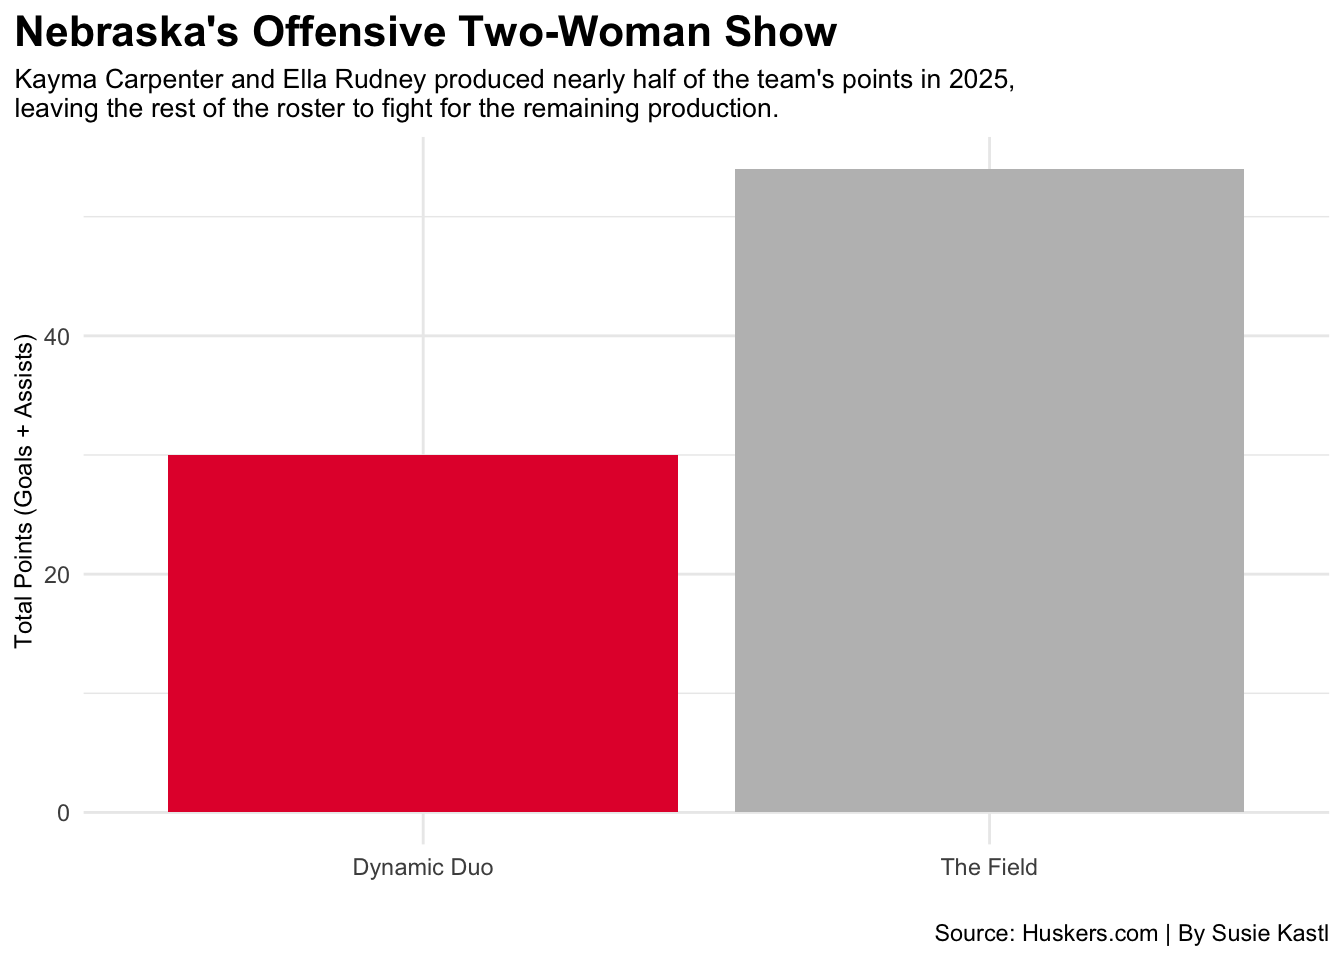
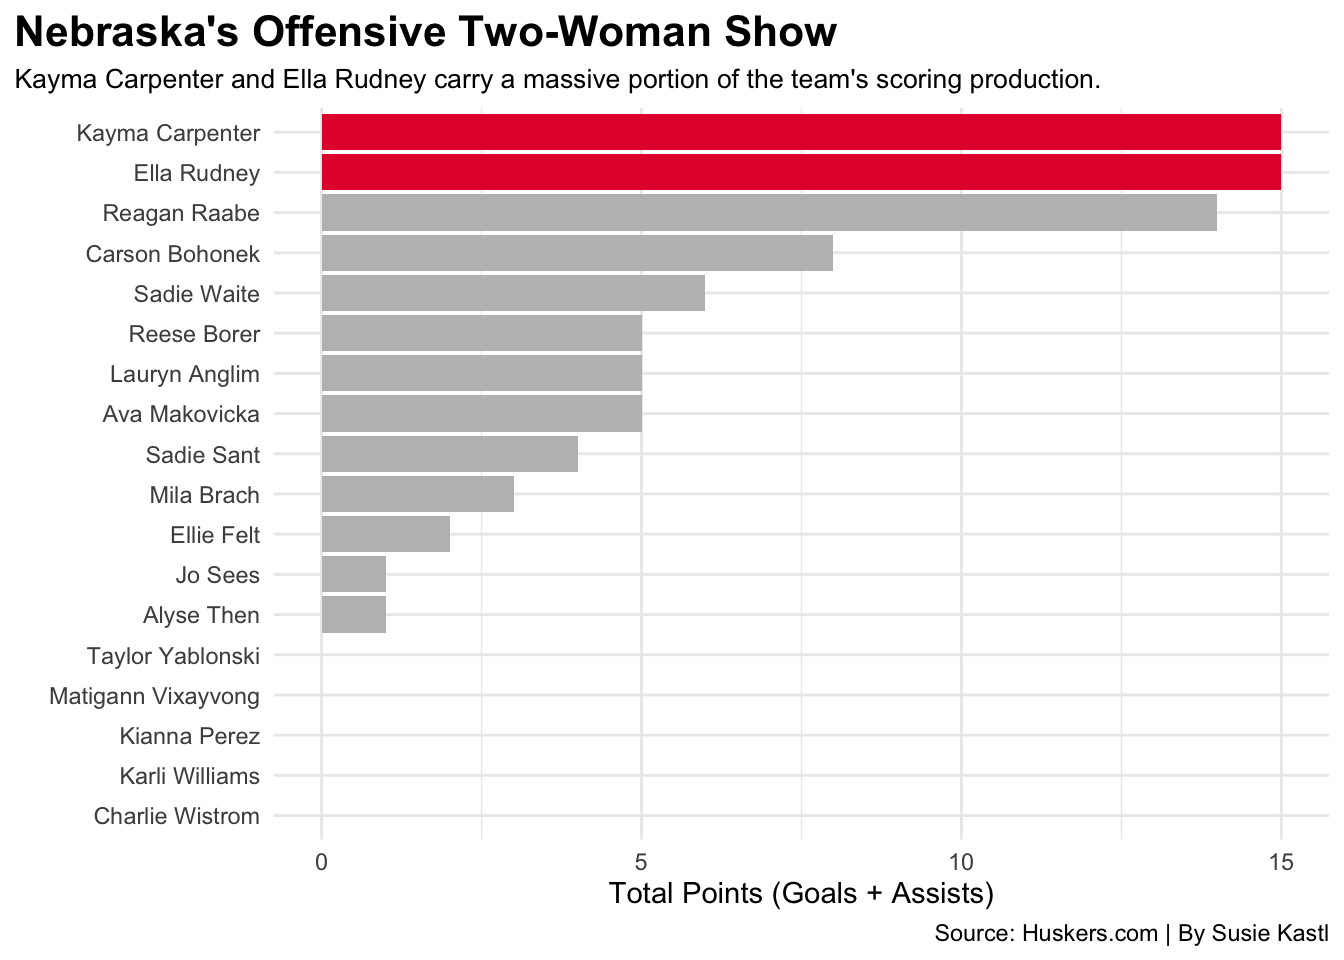
text

diff --git a/posts/huskers-soccer-stats/index.html b/posts/huskers-soccer-stats/index.html
@@ -376,31 +376,25 @@ pre > code.sourceCode > span > a:first-child::before { text-decoration: underlin
 <div class="code-copy-outer-scaffold"><div class="sourceCode cell-code" id="cb1"><pre class="sourceCode r code-with-copy"><code class="sourceCode r"><span id="cb1-1"><a href="#cb1-1" aria-hidden="true" tabindex="-1"></a><span class="fu">library</span>(tidyverse)</span>
 <span id="cb1-2"><a href="#cb1-2" aria-hidden="true" tabindex="-1"></a></span>
 <span id="cb1-3"><a href="#cb1-3" aria-hidden="true" tabindex="-1"></a>players <span class="ot">&lt;-</span> <span class="fu">read_csv</span>(<span class="st">"playersdata.csv"</span>)</span>
-<span id="cb1-4"><a href="#cb1-4" aria-hidden="true" tabindex="-1"></a>games <span class="ot">&lt;-</span> <span class="fu">read_csv</span>(<span class="st">"gamestats.csv"</span>)</span>
-<span id="cb1-5"><a href="#cb1-5" aria-hidden="true" tabindex="-1"></a></span>
-<span id="cb1-6"><a href="#cb1-6" aria-hidden="true" tabindex="-1"></a>point_dist <span class="ot">&lt;-</span> players <span class="sc">|&gt;</span> </span>
-<span id="cb1-7"><a href="#cb1-7" aria-hidden="true" tabindex="-1"></a>  <span class="fu">mutate</span>(<span class="at">Category =</span> <span class="fu">ifelse</span>(Name <span class="sc">==</span> <span class="st">"Kayma Carpenter"</span> <span class="sc">|</span> Name <span class="sc">==</span> <span class="st">"Ella Rudney"</span>, <span class="st">"Dynamic Duo"</span>, <span class="st">"The Field"</span>)) <span class="sc">|&gt;</span> </span>
-<span id="cb1-8"><a href="#cb1-8" aria-hidden="true" tabindex="-1"></a>  <span class="fu">group_by</span>(Category) <span class="sc">|&gt;</span> </span>
-<span id="cb1-9"><a href="#cb1-9" aria-hidden="true" tabindex="-1"></a>  <span class="fu">summarise</span>(<span class="at">Total_Points =</span> <span class="fu">sum</span>(PTS))</span>
-<span id="cb1-10"><a href="#cb1-10" aria-hidden="true" tabindex="-1"></a></span>
-<span id="cb1-11"><a href="#cb1-11" aria-hidden="true" tabindex="-1"></a><span class="fu">ggplot</span>() <span class="sc">+</span></span>
-<span id="cb1-12"><a href="#cb1-12" aria-hidden="true" tabindex="-1"></a>  <span class="fu">geom_bar</span>(<span class="at">data =</span> point_dist, <span class="fu">aes</span>(<span class="at">x =</span> <span class="fu">reorder</span>(Category, Total_Points), <span class="at">weight =</span> Total_Points), <span class="at">fill =</span> <span class="st">"grey"</span>) <span class="sc">+</span></span>
-<span id="cb1-13"><a href="#cb1-13" aria-hidden="true" tabindex="-1"></a>  <span class="fu">geom_bar</span>(<span class="at">data =</span> point_dist <span class="sc">|&gt;</span> <span class="fu">filter</span>(Category <span class="sc">==</span> <span class="st">"Dynamic Duo"</span>), <span class="fu">aes</span>(<span class="at">x =</span> Category, <span class="at">weight =</span> Total_Points), <span class="at">fill =</span> <span class="st">"#E41C38"</span>) <span class="sc">+</span></span>
-<span id="cb1-14"><a href="#cb1-14" aria-hidden="true" tabindex="-1"></a>  <span class="fu">scale_y_continuous</span>(<span class="at">labels =</span> scales<span class="sc">::</span>comma) <span class="sc">+</span> <span class="co"># Rubric: Comma formatting</span></span>
-<span id="cb1-15"><a href="#cb1-15" aria-hidden="true" tabindex="-1"></a>  <span class="fu">theme_minimal</span>() <span class="sc">+</span> </span>
-<span id="cb1-16"><a href="#cb1-16" aria-hidden="true" tabindex="-1"></a>  <span class="fu">labs</span>(</span>
-<span id="cb1-17"><a href="#cb1-17" aria-hidden="true" tabindex="-1"></a>    <span class="at">title =</span> <span class="st">"Nebraska's Offensive Two-Woman Show"</span>,</span>
-<span id="cb1-18"><a href="#cb1-18" aria-hidden="true" tabindex="-1"></a>    <span class="at">subtitle =</span> <span class="st">"Kayma Carpenter and Ella Rudney produced nearly half of the team's points in 2025,</span><span class="sc">\n</span><span class="st">leaving the rest of the roster to fight for the remaining production."</span>,</span>
-<span id="cb1-19"><a href="#cb1-19" aria-hidden="true" tabindex="-1"></a>    <span class="at">x =</span> <span class="st">""</span>, <span class="co"># Rubric: Removed unnecessary label</span></span>
-<span id="cb1-20"><a href="#cb1-20" aria-hidden="true" tabindex="-1"></a>    <span class="at">y =</span> <span class="st">"Total Points (Goals + Assists)"</span>,</span>
-<span id="cb1-21"><a href="#cb1-21" aria-hidden="true" tabindex="-1"></a>    <span class="at">caption =</span> <span class="st">"Source: Huskers.com | By Susie Kastl"</span></span>
-<span id="cb1-22"><a href="#cb1-22" aria-hidden="true" tabindex="-1"></a>  ) <span class="sc">+</span></span>
-<span id="cb1-23"><a href="#cb1-23" aria-hidden="true" tabindex="-1"></a>  <span class="fu">theme</span>(</span>
-<span id="cb1-24"><a href="#cb1-24" aria-hidden="true" tabindex="-1"></a>    <span class="at">plot.title.position =</span> <span class="st">"plot"</span>, <span class="co"># Rubric: Flush left</span></span>
-<span id="cb1-25"><a href="#cb1-25" aria-hidden="true" tabindex="-1"></a>    <span class="at">plot.title =</span> <span class="fu">element_text</span>(<span class="at">face =</span> <span class="st">"bold"</span>, <span class="at">size =</span> <span class="dv">16</span>),</span>
-<span id="cb1-26"><a href="#cb1-26" aria-hidden="true" tabindex="-1"></a>    <span class="at">plot.subtitle =</span> <span class="fu">element_text</span>(<span class="at">size =</span> <span class="dv">10</span>),</span>
-<span id="cb1-27"><a href="#cb1-27" aria-hidden="true" tabindex="-1"></a>    <span class="at">axis.title =</span> <span class="fu">element_text</span>(<span class="at">size =</span> <span class="dv">9</span>)</span>
-<span id="cb1-28"><a href="#cb1-28" aria-hidden="true" tabindex="-1"></a>  )</span></code></pre></div><button title="Copy to Clipboard" class="code-copy-button"><i class="bi"></i></button></div>
+<span id="cb1-4"><a href="#cb1-4" aria-hidden="true" tabindex="-1"></a></span>
+<span id="cb1-5"><a href="#cb1-5" aria-hidden="true" tabindex="-1"></a><span class="fu">ggplot</span>() <span class="sc">+</span> </span>
+<span id="cb1-6"><a href="#cb1-6" aria-hidden="true" tabindex="-1"></a>  <span class="fu">geom_bar</span>(<span class="at">data=</span>players, <span class="fu">aes</span>(<span class="at">x=</span><span class="fu">reorder</span>(Name, PTS), <span class="at">weight=</span>PTS), <span class="at">fill=</span><span class="st">"grey"</span>) <span class="sc">+</span> </span>
+<span id="cb1-7"><a href="#cb1-7" aria-hidden="true" tabindex="-1"></a>  <span class="fu">geom_bar</span>(<span class="at">data=</span>players <span class="sc">|&gt;</span> <span class="fu">filter</span>(Name <span class="sc">==</span> <span class="st">"Kayma Carpenter"</span>), <span class="fu">aes</span>(<span class="at">x=</span>Name, <span class="at">weight=</span>PTS), <span class="at">fill=</span><span class="st">"#E41C38"</span>) <span class="sc">+</span></span>
+<span id="cb1-8"><a href="#cb1-8" aria-hidden="true" tabindex="-1"></a>  <span class="fu">geom_bar</span>(<span class="at">data=</span>players <span class="sc">|&gt;</span> <span class="fu">filter</span>(Name <span class="sc">==</span> <span class="st">"Ella Rudney"</span>), <span class="fu">aes</span>(<span class="at">x=</span>Name, <span class="at">weight=</span>PTS), <span class="at">fill=</span><span class="st">"#E41C38"</span>) <span class="sc">+</span></span>
+<span id="cb1-9"><a href="#cb1-9" aria-hidden="true" tabindex="-1"></a>  <span class="fu">coord_flip</span>() <span class="sc">+</span></span>
+<span id="cb1-10"><a href="#cb1-10" aria-hidden="true" tabindex="-1"></a>  <span class="fu">theme_minimal</span>() <span class="sc">+</span> </span>
+<span id="cb1-11"><a href="#cb1-11" aria-hidden="true" tabindex="-1"></a>  <span class="fu">labs</span>(</span>
+<span id="cb1-12"><a href="#cb1-12" aria-hidden="true" tabindex="-1"></a>    <span class="at">title =</span> <span class="st">"Nebraska's Offensive Two-Woman Show"</span>,</span>
+<span id="cb1-13"><a href="#cb1-13" aria-hidden="true" tabindex="-1"></a>    <span class="at">subtitle =</span> <span class="st">"Kayma Carpenter and Ella Rudney carry a massive portion of the team's scoring production."</span>,</span>
+<span id="cb1-14"><a href="#cb1-14" aria-hidden="true" tabindex="-1"></a>    <span class="at">x =</span> <span class="st">""</span>, </span>
+<span id="cb1-15"><a href="#cb1-15" aria-hidden="true" tabindex="-1"></a>    <span class="at">y =</span> <span class="st">"Total Points (Goals + Assists)"</span>,</span>
+<span id="cb1-16"><a href="#cb1-16" aria-hidden="true" tabindex="-1"></a>    <span class="at">caption =</span> <span class="st">"Source: Huskers.com | By Susie Kastl"</span></span>
+<span id="cb1-17"><a href="#cb1-17" aria-hidden="true" tabindex="-1"></a>  ) <span class="sc">+</span></span>
+<span id="cb1-18"><a href="#cb1-18" aria-hidden="true" tabindex="-1"></a>  <span class="fu">theme</span>(</span>
+<span id="cb1-19"><a href="#cb1-19" aria-hidden="true" tabindex="-1"></a>    <span class="at">plot.title.position =</span> <span class="st">"plot"</span>,</span>
+<span id="cb1-20"><a href="#cb1-20" aria-hidden="true" tabindex="-1"></a>    <span class="at">plot.title =</span> <span class="fu">element_text</span>(<span class="at">face =</span> <span class="st">"bold"</span>, <span class="at">size =</span> <span class="dv">16</span>),</span>
+<span id="cb1-21"><a href="#cb1-21" aria-hidden="true" tabindex="-1"></a>    <span class="at">plot.subtitle =</span> <span class="fu">element_text</span>(<span class="at">size =</span> <span class="dv">10</span>)</span>
+<span id="cb1-22"><a href="#cb1-22" aria-hidden="true" tabindex="-1"></a>  )</span></code></pre></div><button title="Copy to Clipboard" class="code-copy-button"><i class="bi"></i></button></div>
 </details>
 <div class="cell-output-display">
 <div>
@@ -470,14 +464,14 @@ pre > code.sourceCode > span > a:first-child::before { text-decoration: underlin
 <span id="cb3-7"><a href="#cb3-7" aria-hidden="true" tabindex="-1"></a>  <span class="fu">geom_line</span>(<span class="at">data =</span> games, <span class="fu">aes</span>(<span class="at">x =</span> GameNum, <span class="at">y =</span> G), <span class="at">color =</span> <span class="st">"grey"</span>, <span class="at">size =</span> <span class="dv">1</span>) <span class="sc">+</span></span>
 <span id="cb3-8"><a href="#cb3-8" aria-hidden="true" tabindex="-1"></a>  <span class="fu">geom_point</span>(<span class="at">data =</span> games, <span class="fu">aes</span>(<span class="at">x =</span> GameNum, <span class="at">y =</span> G, <span class="at">color =</span> Duo_scored), <span class="at">size =</span> <span class="dv">3</span>) <span class="sc">+</span></span>
 <span id="cb3-9"><a href="#cb3-9" aria-hidden="true" tabindex="-1"></a>  <span class="fu">scale_color_manual</span>(<span class="at">values =</span> <span class="fu">c</span>(<span class="st">"Yes"</span> <span class="ot">=</span> <span class="st">"#E41C38"</span>, <span class="st">"No"</span> <span class="ot">=</span> <span class="st">"black"</span>)) <span class="sc">+</span></span>
-<span id="cb3-10"><a href="#cb3-10" aria-hidden="true" tabindex="-1"></a>  <span class="fu">scale_y_continuous</span>(<span class="at">labels =</span> scales<span class="sc">::</span>comma) <span class="sc">+</span> <span class="co"># Rubric: Comma formatting</span></span>
+<span id="cb3-10"><a href="#cb3-10" aria-hidden="true" tabindex="-1"></a>  <span class="fu">scale_y_continuous</span>(<span class="at">labels =</span> scales<span class="sc">::</span>comma) <span class="sc">+</span> </span>
 <span id="cb3-11"><a href="#cb3-11" aria-hidden="true" tabindex="-1"></a>  <span class="fu">theme_minimal</span>() <span class="sc">+</span></span>
 <span id="cb3-12"><a href="#cb3-12" aria-hidden="true" tabindex="-1"></a>  <span class="fu">labs</span>(</span>
 <span id="cb3-13"><a href="#cb3-13" aria-hidden="true" tabindex="-1"></a>    <span class="at">title =</span> <span class="st">"The Pulse of the Husker Offense"</span>,</span>
 <span id="cb3-14"><a href="#cb3-14" aria-hidden="true" tabindex="-1"></a>    <span class="at">subtitle =</span> <span class="st">"Nebraska's scoring output plummeted during Big Ten play when the 'Dynamic Duo'</span><span class="sc">\n</span><span class="st">was held scoreless, proving their role as the team's primary engine."</span>,</span>
 <span id="cb3-15"><a href="#cb3-15" aria-hidden="true" tabindex="-1"></a>    <span class="at">x =</span> <span class="st">"Game Number"</span>,</span>
 <span id="cb3-16"><a href="#cb3-16" aria-hidden="true" tabindex="-1"></a>    <span class="at">y =</span> <span class="st">"Goals Scored"</span>,</span>
-<span id="cb3-17"><a href="#cb3-17" aria-hidden="true" tabindex="-1"></a>    <span class="at">color =</span> <span class="st">"Duo Scored?"</span>, <span class="co"># FIXED: Correct legend label</span></span>
+<span id="cb3-17"><a href="#cb3-17" aria-hidden="true" tabindex="-1"></a>    <span class="at">color =</span> <span class="st">"Duo Scored?"</span>,</span>
 <span id="cb3-18"><a href="#cb3-18" aria-hidden="true" tabindex="-1"></a>    <span class="at">caption =</span> <span class="st">"Source: Huskers.com | By Susie Kastl"</span></span>
 <span id="cb3-19"><a href="#cb3-19" aria-hidden="true" tabindex="-1"></a>  ) <span class="sc">+</span></span>
 <span id="cb3-20"><a href="#cb3-20" aria-hidden="true" tabindex="-1"></a>  <span class="fu">theme</span>(</span>

diff --git a/index.html b/index.html
@@ -378,7 +378,7 @@ window.Quarto = {
 
 <div class="quarto-listing quarto-listing-container-default" id="listing-listing">
 <div class="list quarto-listing-default">
-<div class="quarto-post image-right" data-index="0" data-categories="bmNhYSUyQ3NvY2NlciUyQ2h1c2tlcnM=" data-listing-date-sort="1777352400000" data-listing-file-modified-sort="1777317170220" data-listing-date-modified-sort="NaN" data-listing-reading-time-sort="6" data-listing-word-count-sort="1047">
+<div class="quarto-post image-right" data-index="0" data-categories="bmNhYSUyQ3NvY2NlciUyQ2h1c2tlcnM=" data-listing-date-sort="1777352400000" data-listing-file-modified-sort="1777319158326" data-listing-date-modified-sort="NaN" data-listing-reading-time-sort="5" data-listing-word-count-sort="971">
 <div class="thumbnail"><a href="./posts/huskers-soccer-stats/index.html" class="no-external">
 
 <img loading="lazy" src="./posts/huskers-soccer-stats/image.png" class="thumbnail-image">
